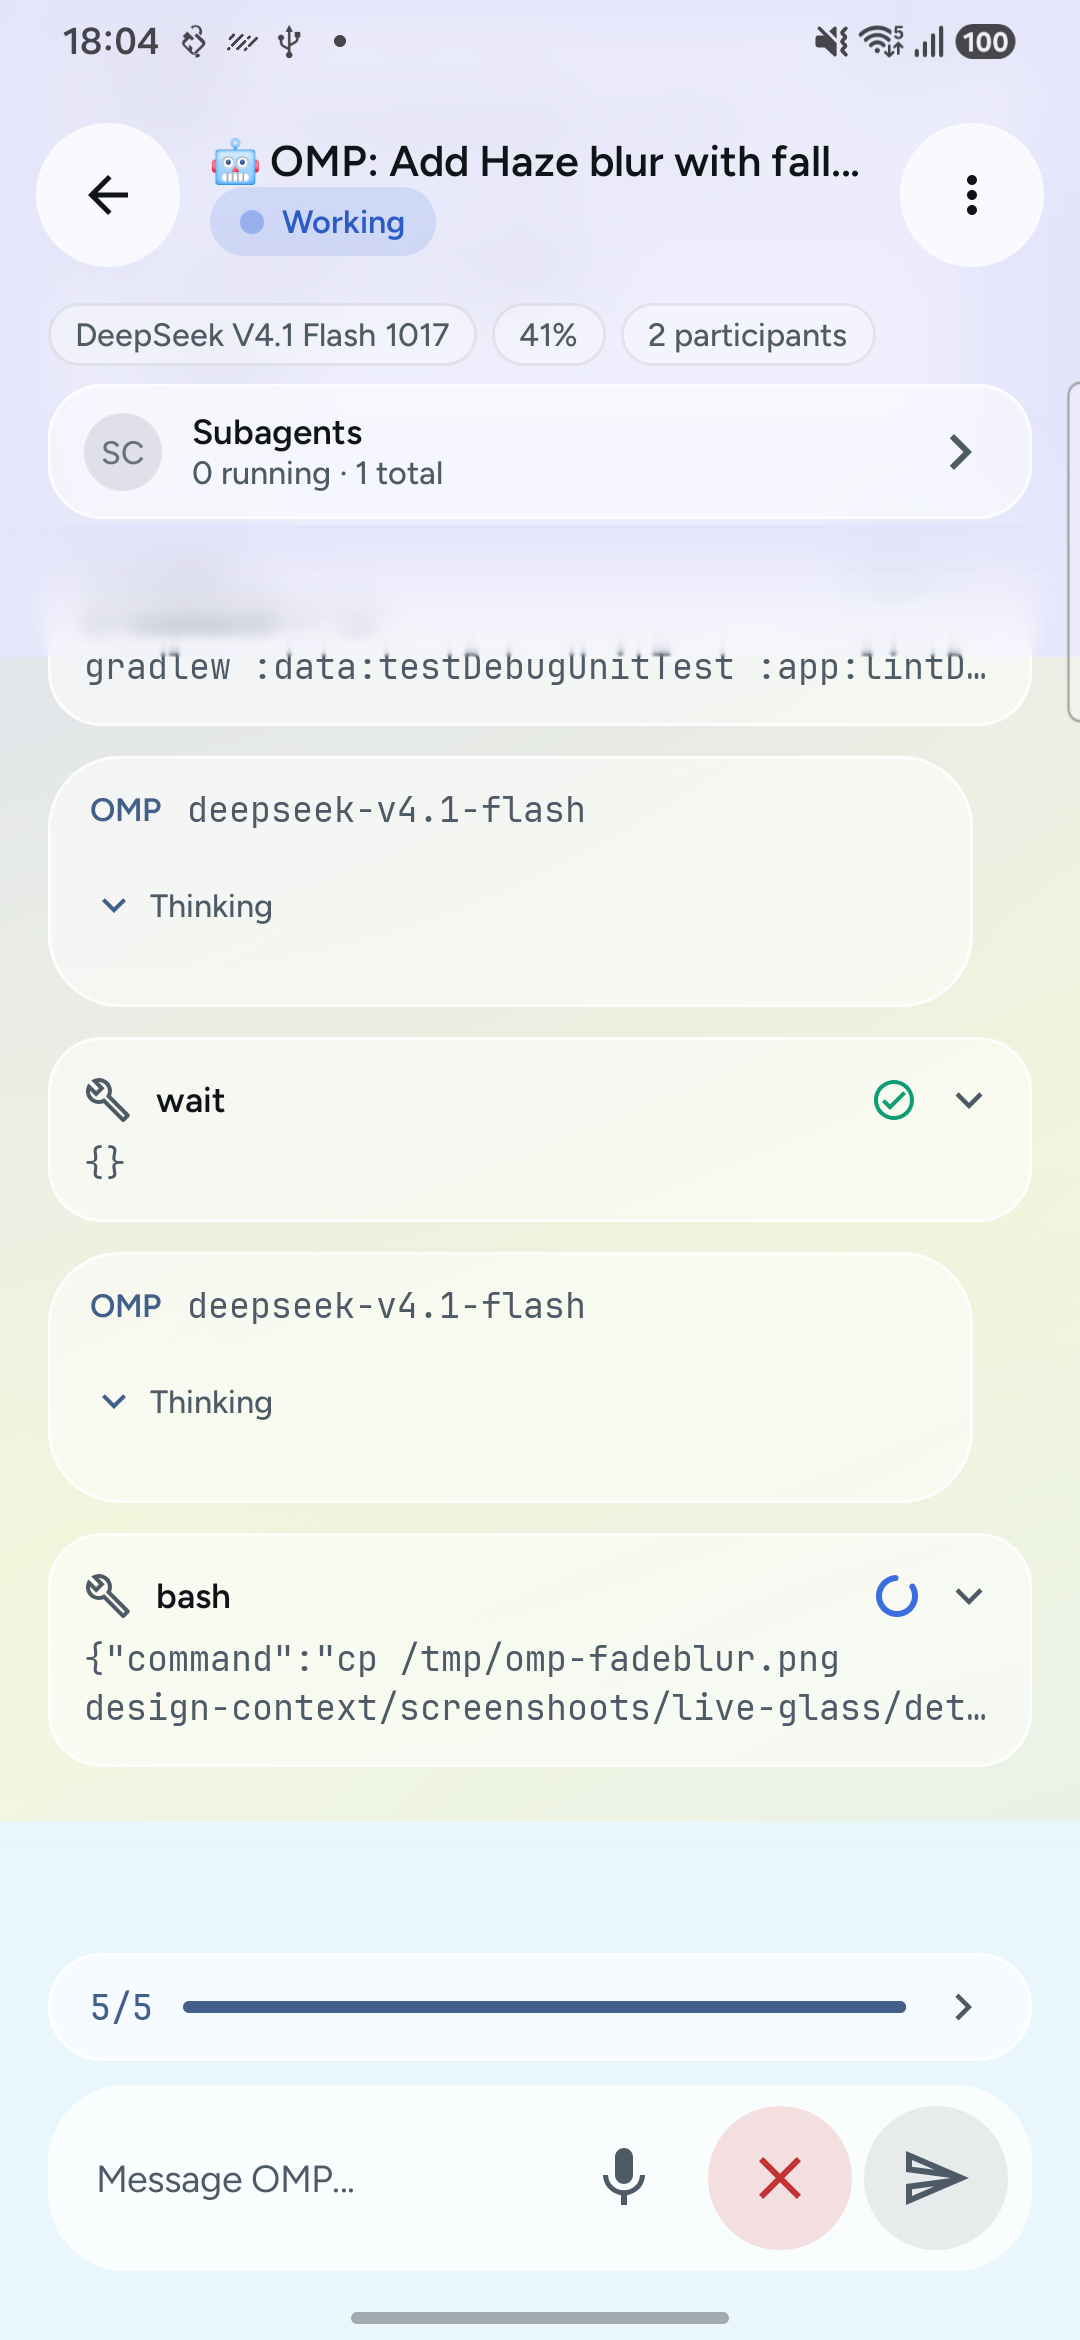
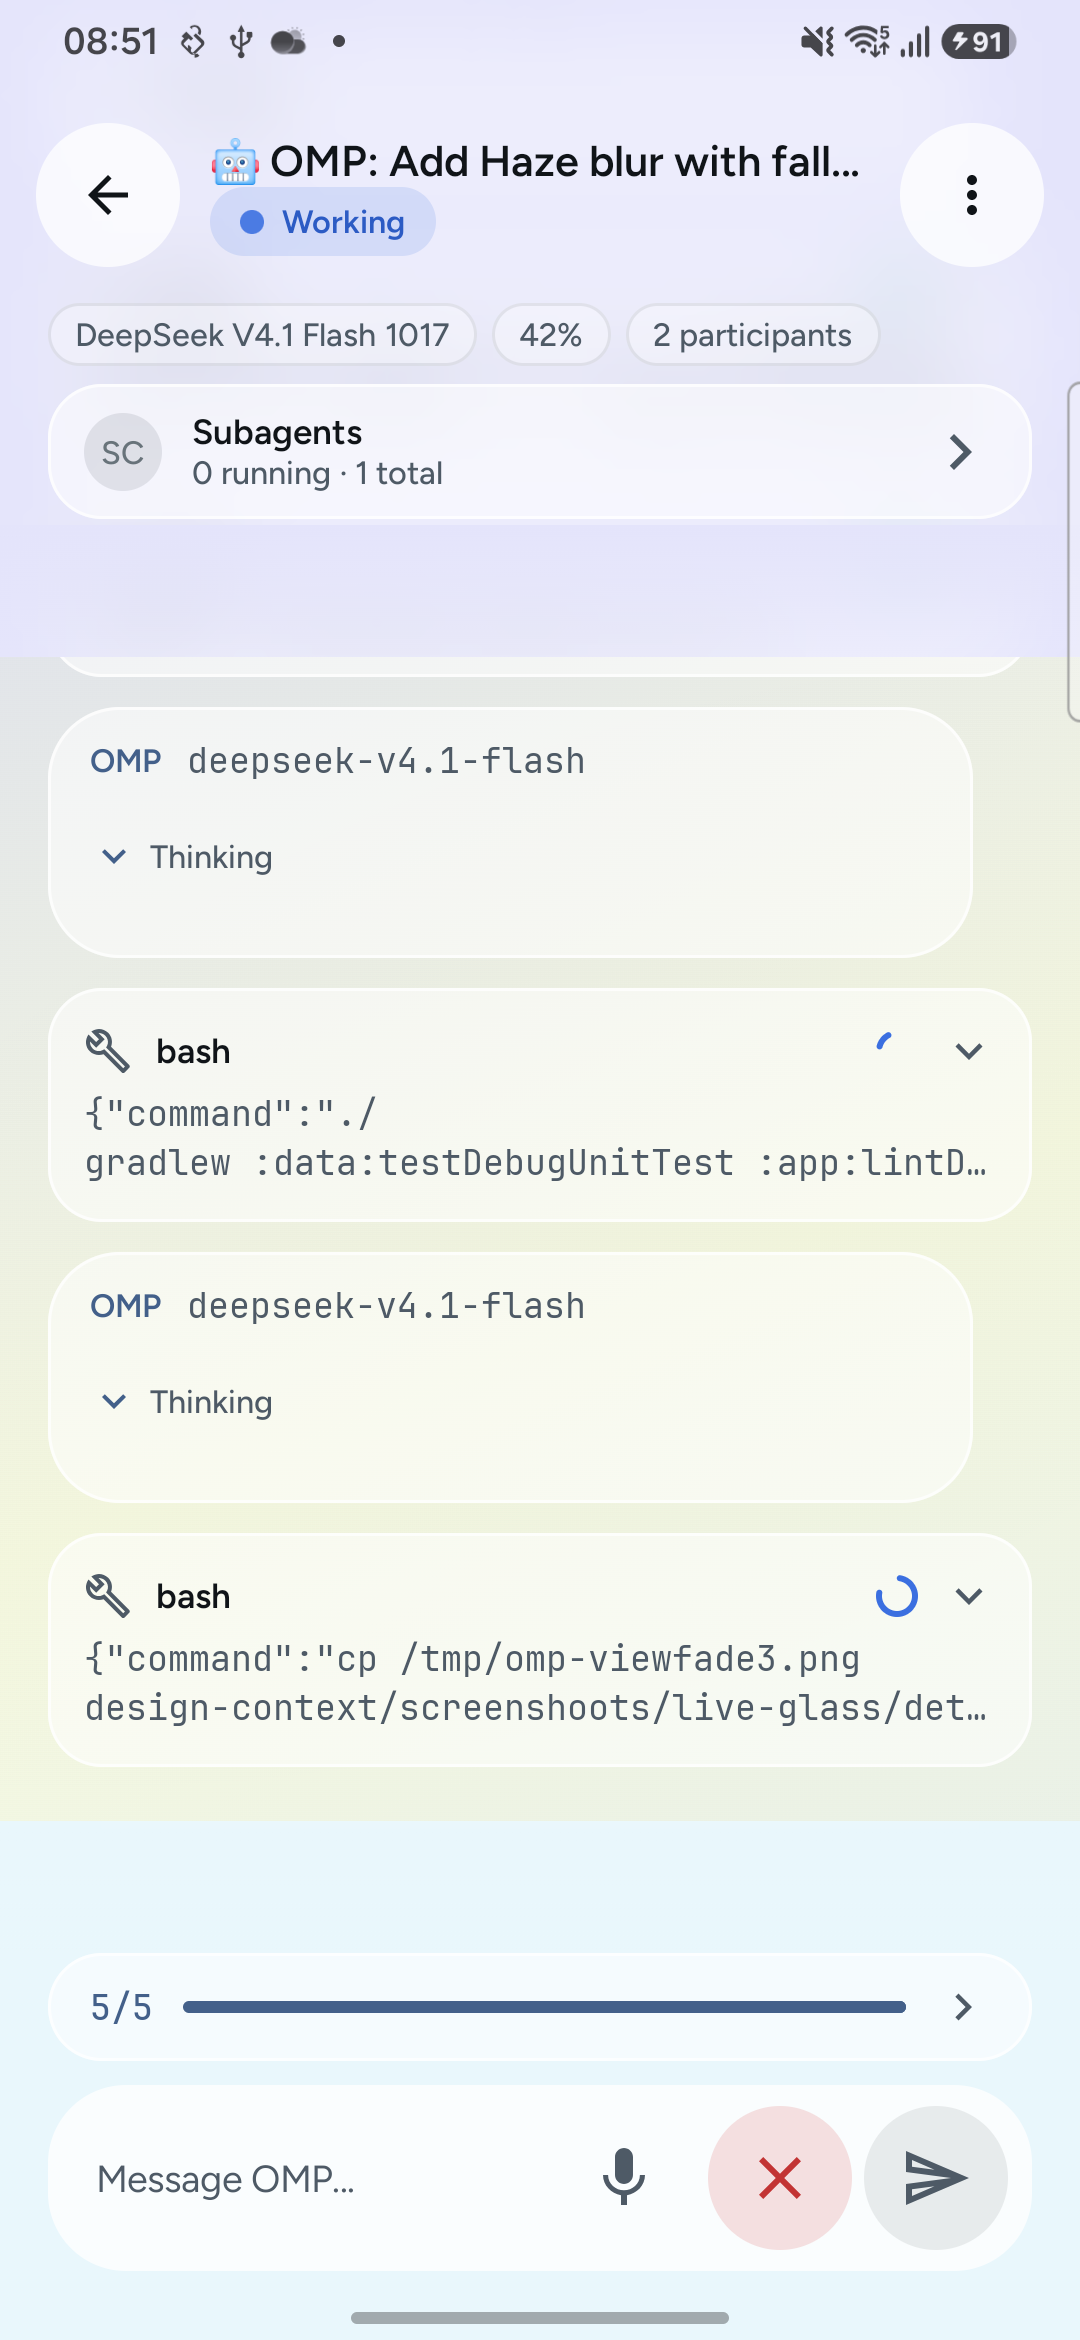
Use plain view fade for chrome padding

diff --git a/app/src/main/kotlin/com/ompsessionconnect/ui/detail/SessionDetailScreen.kt b/app/src/main/kotlin/com/ompsessionconnect/ui/detail/SessionDetailScreen.kt
@@ -139,7 +139,6 @@ import com.ompsessionconnect.ui.theme.LiveGlassShapes
 import com.ompsessionconnect.ui.theme.LocalLiveGlass
 import com.ompsessionconnect.ui.theme.LocalSessionStatusColors
 import dev.chrisbanes.haze.HazeInput
-import dev.chrisbanes.haze.HazeProgressive
 import dev.chrisbanes.haze.hazeSource
 import dev.chrisbanes.haze.rememberHazeState
 import dev.chrisbanes.haze.blur.HazeBlurStyle
@@ -231,32 +230,6 @@ private fun chromeBlurStyle(field: Color, dark: Boolean): HazeBlurStyle = HazeBl
   colorEffects(
     listOf(
       HazeColorEffect.tint(field.copy(alpha = if (dark) 0.45f else 0.35f)),
-    ),
-  )
-  blurredEdgeTreatment(BlurredEdgeTreatment.Rectangle)
-  noiseFactor(0f)
-}
-
-private fun fadeBlurStyle(field: Color, top: Boolean): HazeBlurStyle = HazeBlurStyle {
-  blurRadius(24.dp)
-  backgroundColor(Color.Transparent)
-  colorEffects(
-    listOf(
-      HazeColorEffect.tint(
-        Brush.verticalGradient(
-          colorStops = if (top) {
-            arrayOf(0f to field, 0.55f to field.copy(alpha = 0.55f), 1f to Color.Transparent)
-          } else {
-            arrayOf(0f to Color.Transparent, 0.45f to field.copy(alpha = 0.55f), 1f to field)
-          },
-        ),
-      ),
-    ),
-  )
-  progressive(
-    HazeProgressive.verticalGradient(
-      startIntensity = if (top) 1f else 0f,
-      endIntensity = if (top) 0f else 1f,
     ),
   )
   blurredEdgeTreatment(BlurredEdgeTreatment.Rectangle)
@@ -388,8 +361,6 @@ private fun SessionDetailContent(
   val bottomBlurStyle = remember(tokens.fieldC, tokens.dark) {
     chromeBlurStyle(tokens.fieldC, tokens.dark)
   }
-  val topFadeStyle = remember(tokens.fieldA) { fadeBlurStyle(tokens.fieldA, top = true) }
-  val bottomFadeStyle = remember(tokens.fieldC) { fadeBlurStyle(tokens.fieldC, top = false) }
   fun chromeBlur(style: HazeBlurStyle): Modifier =
     if (blurAvailable) {
       Modifier.hazeBlur(
@@ -398,15 +369,6 @@ private fun SessionDetailContent(
       )
     } else {
       Modifier
-    }
-  fun chromeFade(style: HazeBlurStyle, fallback: Brush): Modifier =
-    if (blurAvailable) {
-      Modifier.hazeBlur(
-        input = HazeInput.Sources(hazeState),
-        style = style,
-      )
-    } else {
-      Modifier.background(fallback)
     }
 
   Box(modifier = Modifier.fillMaxSize()) {
@@ -583,15 +545,12 @@ private fun SessionDetailContent(
           .fillMaxWidth()
           .height(ChromeFade)
           .zIndex(3f)
-          .then(
-            chromeFade(
-              topFadeStyle,
-              Brush.verticalGradient(
-                colorStops = arrayOf(
-                  0f to tokens.fieldA,
-                  0.55f to tokens.fieldA.copy(alpha = 0.55f),
-                  1f to Color.Transparent,
-                ),
+          .background(
+            Brush.verticalGradient(
+              colorStops = arrayOf(
+                0f to tokens.fieldA,
+                0.55f to tokens.fieldA.copy(alpha = 0.55f),
+                1f to Color.Transparent,
               ),
             ),
           ),
@@ -695,15 +654,12 @@ private fun SessionDetailContent(
           .fillMaxWidth()
           .height(ChromeFade)
           .zIndex(3f)
-          .then(
-            chromeFade(
-              bottomFadeStyle,
-              Brush.verticalGradient(
-                colorStops = arrayOf(
-                  0f to Color.Transparent,
-                  0.45f to tokens.fieldC.copy(alpha = 0.55f),
-                  1f to tokens.fieldC,
-                ),
+          .background(
+            Brush.verticalGradient(
+              colorStops = arrayOf(
+                0f to Color.Transparent,
+                0.45f to tokens.fieldC.copy(alpha = 0.55f),
+                1f to tokens.fieldC,
               ),
             ),
           ),
